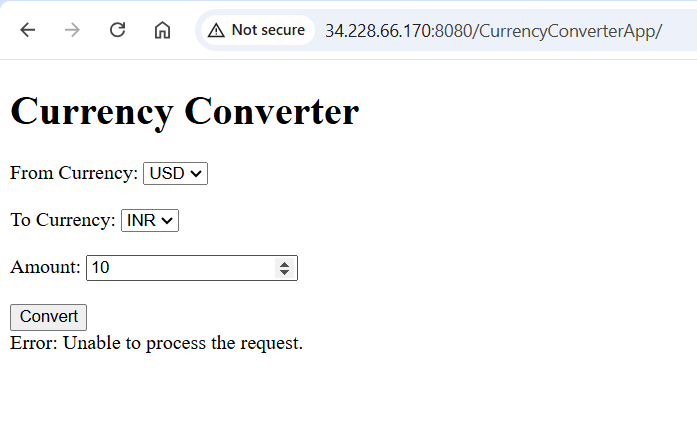
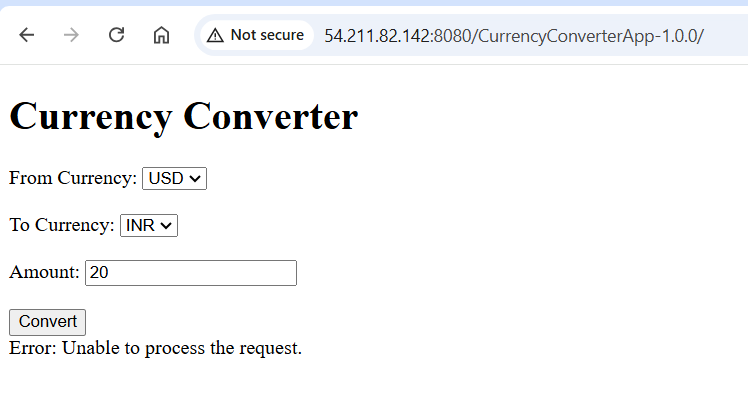
changes

diff --git a/CurrencyConverterApp/README.md b/CurrencyConverterApp/README.md
@@ -92,15 +92,16 @@ sudo ./asadmin enable-secure-admin
 sudo cp Projects/CurrencyConverterApp/target/Curreubuntu@ip-172-31-33-34:~$ sudo cp Projects/CurrencyConverterApp/target/CurrencyConverterApp-1.0.0.war /opt/glassfish6/glassfish/domains/domain1/applications/
 sudo ./asadmin deploy /opt/glassfish6/glassfish/domains/domain1/applications/CurrencyConverterApp-1.0.0.war
 ```
+![preview](images/java13.png)
 1. **Check Deployment:**
 
 * Open a browser and visit:
 ```
-http://<server-ip>:4848/CurrencyConverterApp/
+http://54.211.82.142:8080/CurrencyConverterApp-1.0.0/
 ```
 ![preview](images/java1.png)
 
-### JFrog Artifactory
+### JFrog Artifactory 
 * Taken ubuntu 22.04 and installed java 11
 * Get the vesion from jfrog page [refer here](https://jfrog.com/download-legacy/)
 
@@ -136,5 +137,4 @@ sudo systemctl status artifactory.service
 ![preview](images/java9.png)
 ![preview](images/java10.png)
 
-* Now, In build.xml file we have to add details of this repository of jfrog artifactory so while building the artifact that artifact will store in the jfrog artifactory.
-* I tried to do the process with ant as build tool but jfrog is not supporting and involving maven. SO instead of that I will use maven as build tool.
+* 
